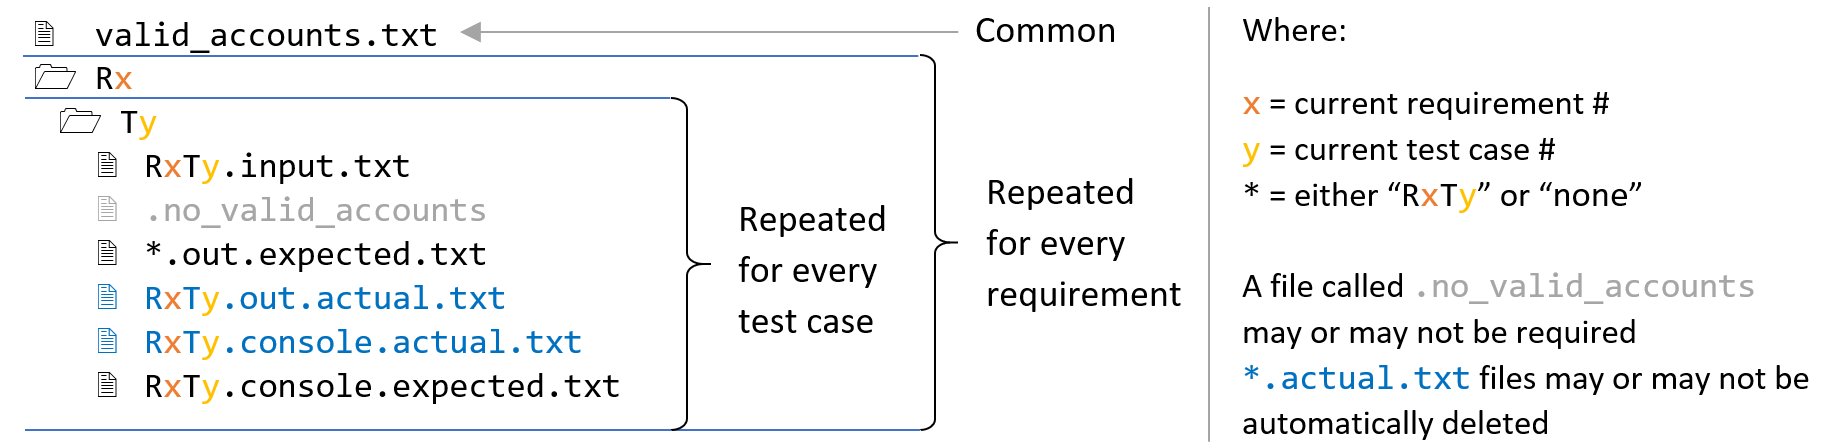
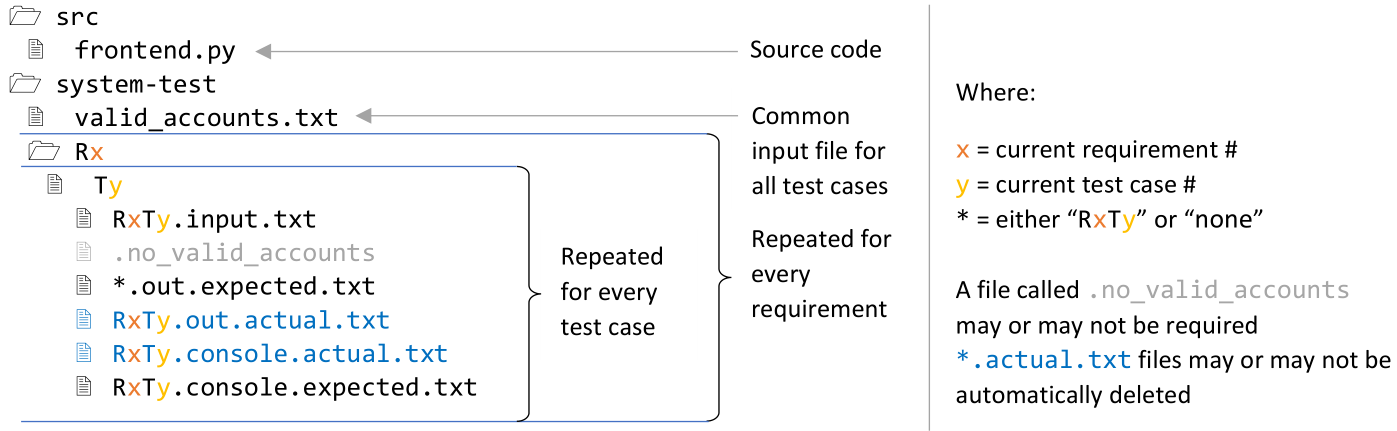
Updated folder structure image

diff --git a/README.md b/README.md
@@ -38,14 +38,18 @@ If everything goes well, you should get this output for the example test cases i
 
 ### Folder structure:
 
-The source code is in the `src` folder
+For our own testing framework to automatically find all test cases, a set folder structure is used.<br>
+The source code is in the `src` folder.<br>
+The system tests are in the `system-test` folder.
 
-The system tests are in the `system-test` folder</br>
-The structure of this folder must be as shown below:
+The structure of these folders is shown below:
 
 <img src="docs/folder_structure.png" alt="Folder Structure"/>
 
 ### Testing procedure:
+
+For running all the requirements tests, the [system-test-frontend.bat](system-test-frontend.bat) script is used in either the root or system-test folder. This is a simple helper script that calls the actual test runner script (explained below) with the [frontend.py](src/frontend.py) script as the testing target.
+
 
 The [system_test_runner.py](system-test/system_test_runner.py) script recursively traverses the `system-test` folder.
        
